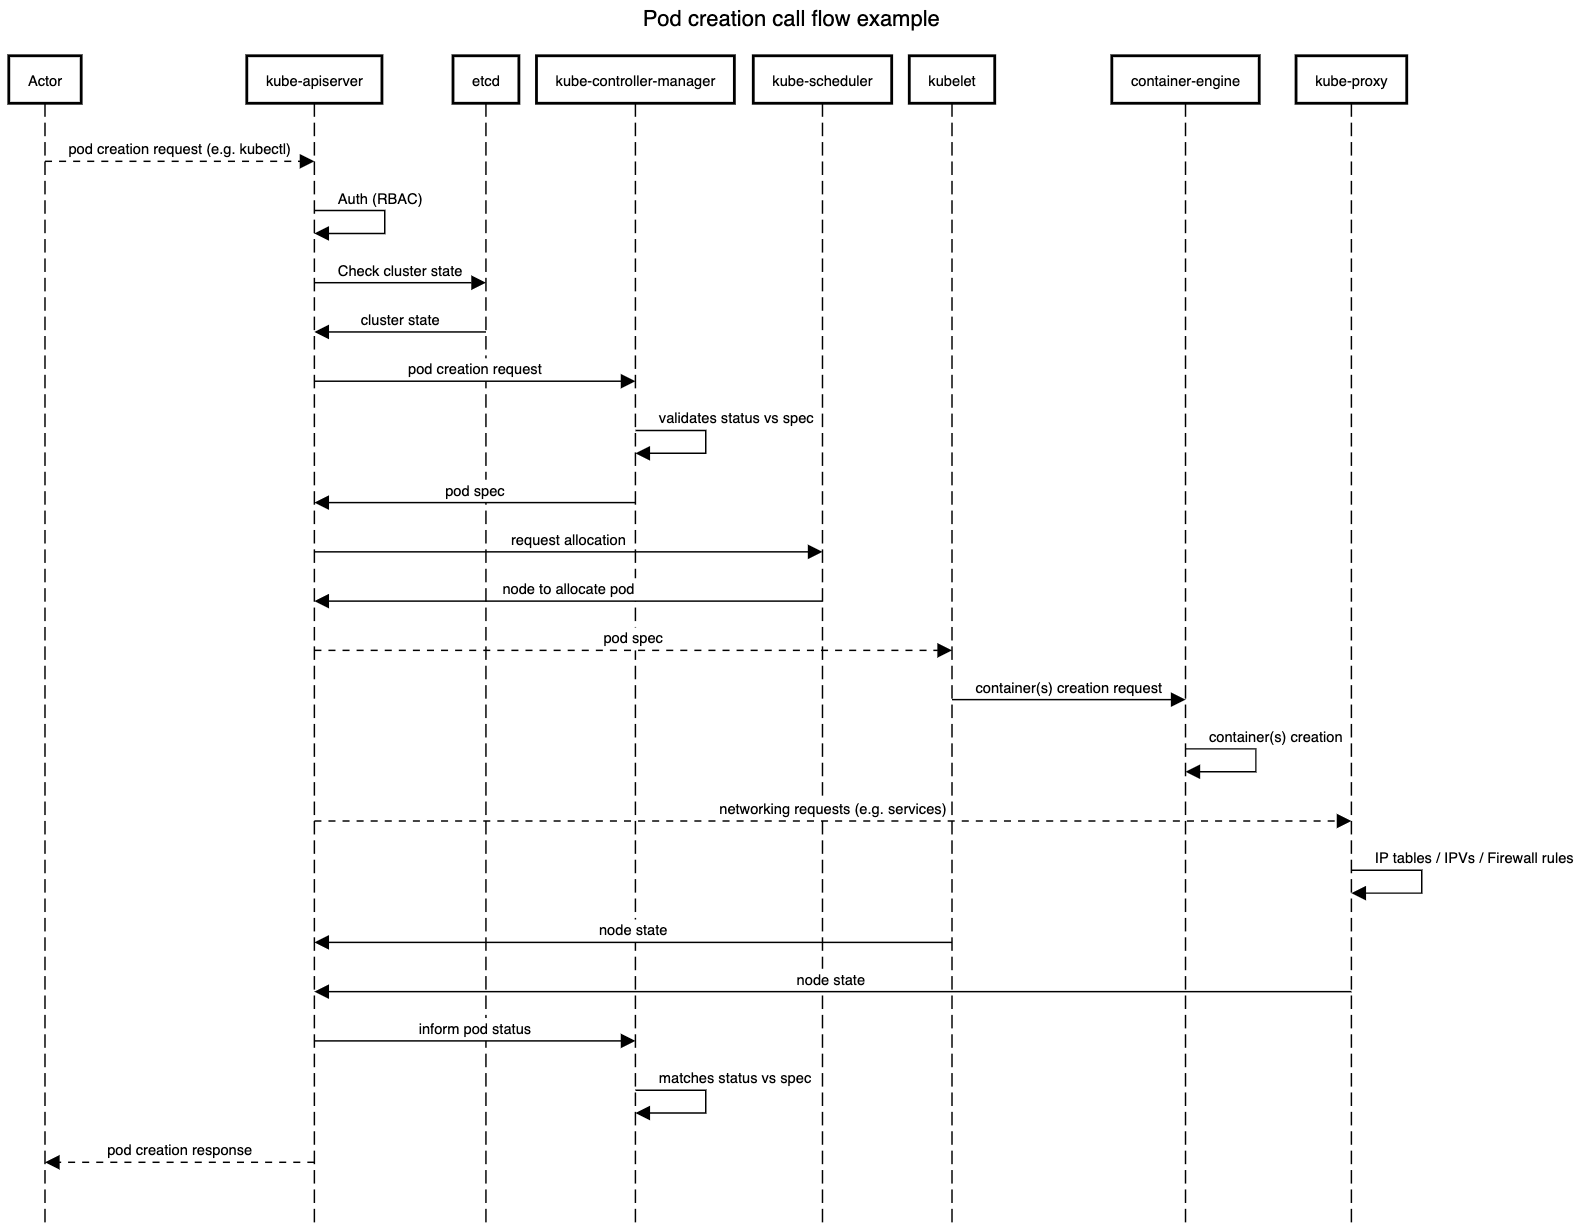
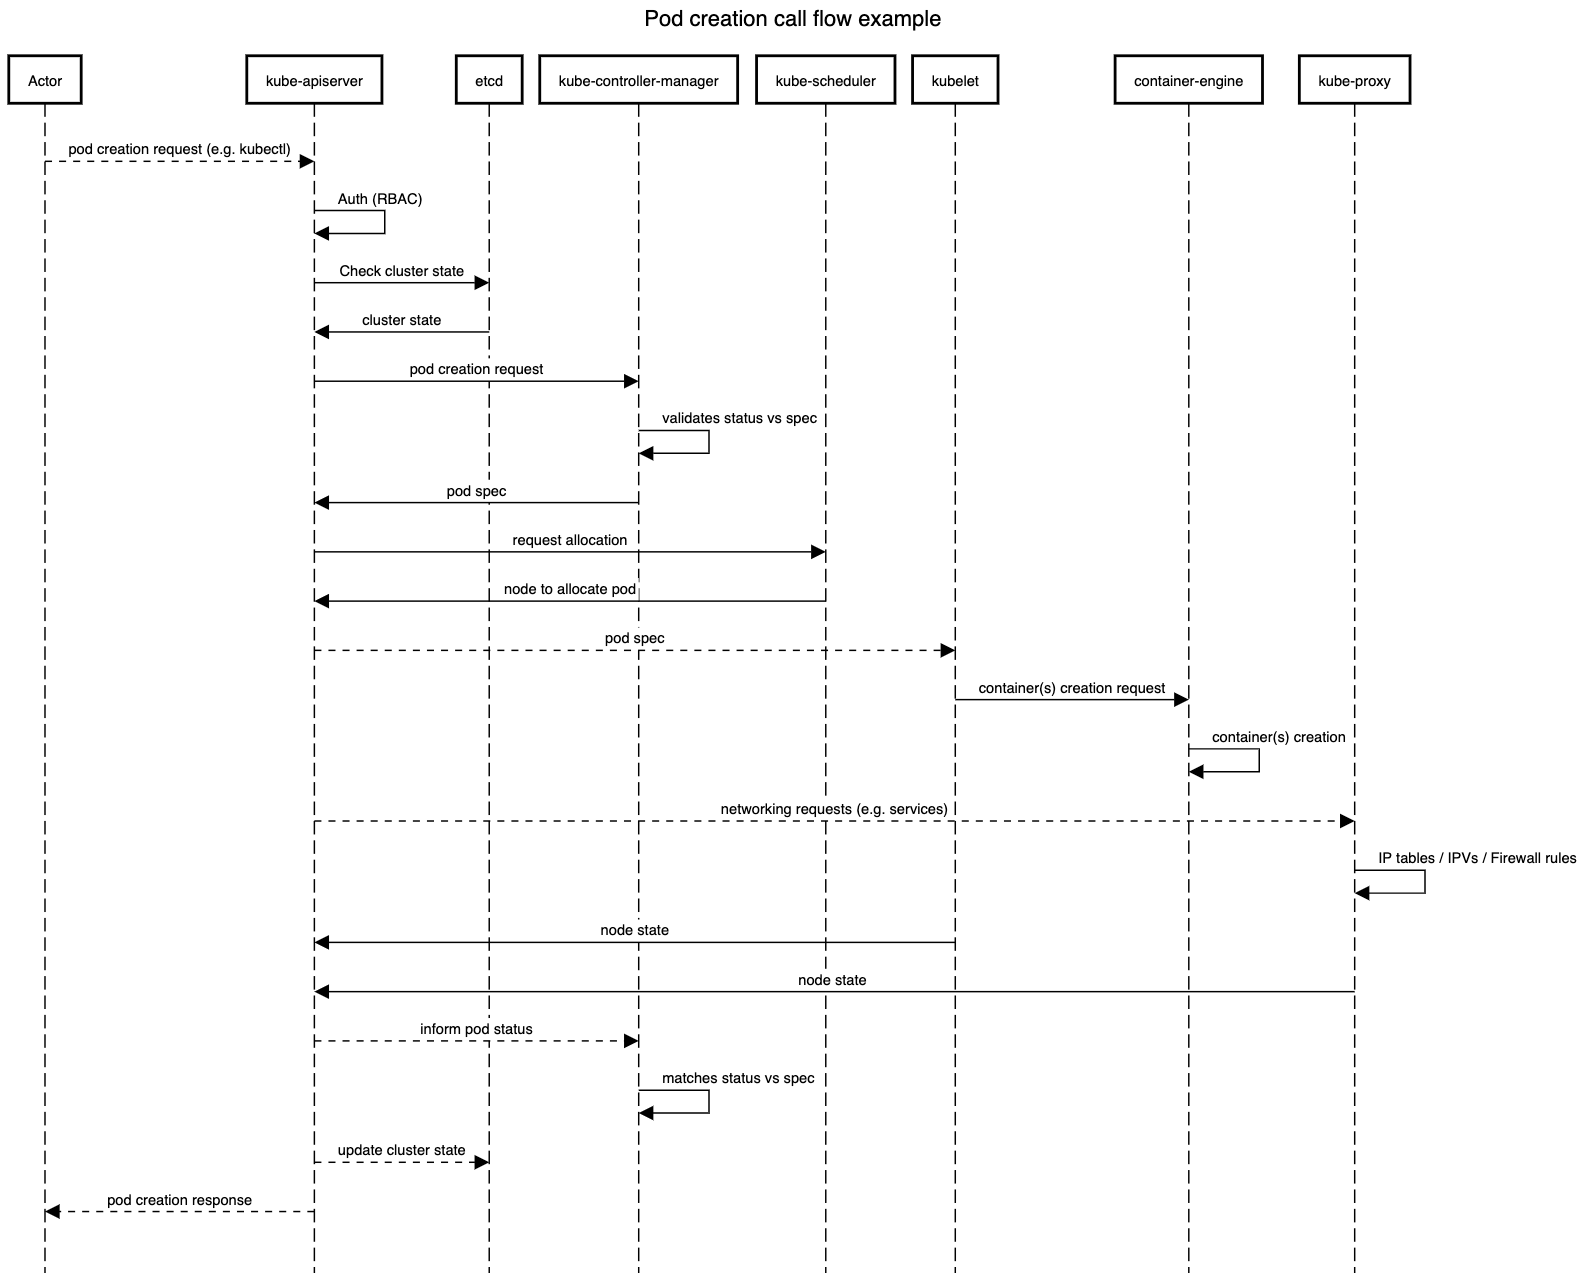
day 16

diff --git a/challenge/week03/day16/README.md b/challenge/week03/day16/README.md
@@ -1,0 +1,57 @@
+# Day 15 of #66DaysOfK8s
+
+_Last update: 2021-01-26_
+
+---
+
+Day 16 of #66DaysOfK8s. Today, I have worked in the last part of a series of lessons in order to review the Kubernetes Architecture.
+On this 8th day, a focus is on Cluster Networking.
+
+#kubernetes #learning #K8s #66DaysChallenge
+
+---
+
+## Versions used
+
+* N/A (only theory)
+
+---
+
+## Setup
+
+* N/A
+
+---
+
+## Tasks
+
+Understand:
+
+* Cluster Networking
+
+---
+
+### Networking setup
+
+* A Pod can be seen as a virtual machine or physical host (w.r.t. port allocation, service discovery, etc.). The network has to assign an IP address to any Pod, and route traffic between all Pods (regardless of which node it is located).
+
+* A container orchestration system has these networking issues to deal with:
+  * Highly coupled container-to-container communication within the same Pod (solved by [Pod networking](https://github.com/jp-chl/66DaysOfK8s/tree/master/challenge/week03/day15)).
+  * Pod-to-Pod communication.
+  * Service-to-Pod communication and External-to-Service communication (solved by the [services](https://kubernetes.io/docs/concepts/services-networking/service/) concept).
+
+* The container networking is standardized on the Container Network Interface ([CNI](https://github.com/containernetworking/cni)) specification, which configures it and removes allocated resources when the container is deleted. It provides a common interface between network solutions and container runtimes.
+
+* CNI helps to provide a single IP per Pod, however, to manage Pod-to-Pod communication Kubernetes delegates this to a network model/implementation which has to follow these requirements:
+  * Pods on a node can communicate with all Pods on any node without NAT.
+  * Agents on any node (e.g. [daemonSet](https://kubernetes.io/docs/concepts/workloads/controllers/daemonset/), [kubelet](https://github.com/jp-chl/66DaysOfK8s/tree/master/challenge/week02/day10)) can communicate with all Pods on it.
+
+* There are several alternatives that implement the networking model (check a [list in the official site](https://kubernetes.io/docs/concepts/cluster-administration/networking/), for example:  [Weave](https://www.weave.works/products/weave-net/), [Flannel](https://github.com/coreos/flannel#flannel), [Calico](https://docs.projectcalico.org/), etc.
+
+---
+
+## References
+
+* [Cluster networking (official site)](https://kubernetes.io/docs/concepts/cluster-administration/networking/)
+
+* [Kubernetes Networking Guide for Beginners](https://matthewpalmer.net/kubernetes-app-developer/articles/kubernetes-networking-guide-beginners.html)

diff --git a/challenge/week02/day14/README.md b/challenge/week02/day14/README.md
@@ -53,4 +53,5 @@ The flow goes as follows:
 * The kubelet requests the creation to the container-engine (typically Docker or cri-o).
 * The kube-proxy handles networking such as the required services (also IP tables, IPVs or firewall rules).
 * Then, both kubelet and kube-proxy inform back to kube-apiserver about the node state.
-* Finally, kube-apiserver informs kube-controller-manager and the latter matches status vs spec (if applies).
+* Kube-apiserver informs kube-controller-manager and the latter matches status vs spec (if applies).
+* Kube-apiserver requests etcd for cluster state update

diff --git a/challenge/README.md b/challenge/README.md
@@ -24,7 +24,7 @@ Here's my knowledge base of what I've done in this challenge.
 13|Kubernetes Architecture|Part 5: Pods|[Day13](./week02/day13)
 14|Kubernetes Architecture|Part 6: API Call Flow (example)|[Day14](./week02/day14)
 15|Kubernetes Architecture|Part 7: Pod networking|[Day15](./week03/day15)
-16|TBC|TBC|[Day16](./week03/day16)
+16|Kubernetes Architecture|Part 8: Cluster Networking|[Day16](./week03/day16)
 17|TBC|TBC|[Day17](./week03/day17)
 18|TBC|TBC|[Day18](./week03/day18)
 19|TBC|TBC|[Day19](./week03/day19)

diff --git a/challenge/week03/day15/README.md b/challenge/week03/day15/README.md
@@ -6,11 +6,6 @@ _Last update: 2021-01-25_
 
 Day 15 of #66DaysOfK8s. Today, I have worked in part 7 of a series of lessons in order to review the Kubernetes Architecture.
 On this 7th day, a focus is on Pod Networking.
-Repo: https://github.com/jp-chl/66DaysOfK8s/tree/master/challenge/week03/day15
-
-#kubernetes #learning #K8s #66DaysChallenge
-
-
 
 #kubernetes #learning #K8s #66DaysChallenge
 
